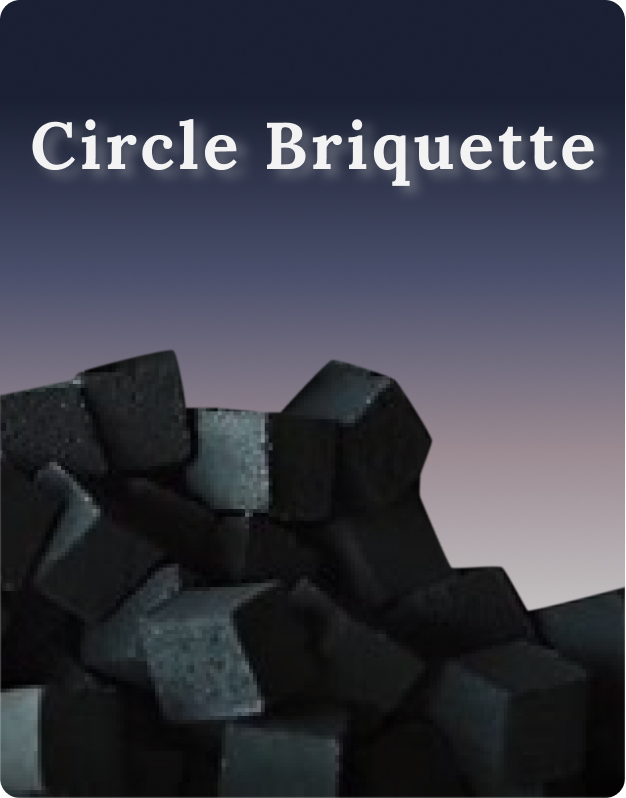
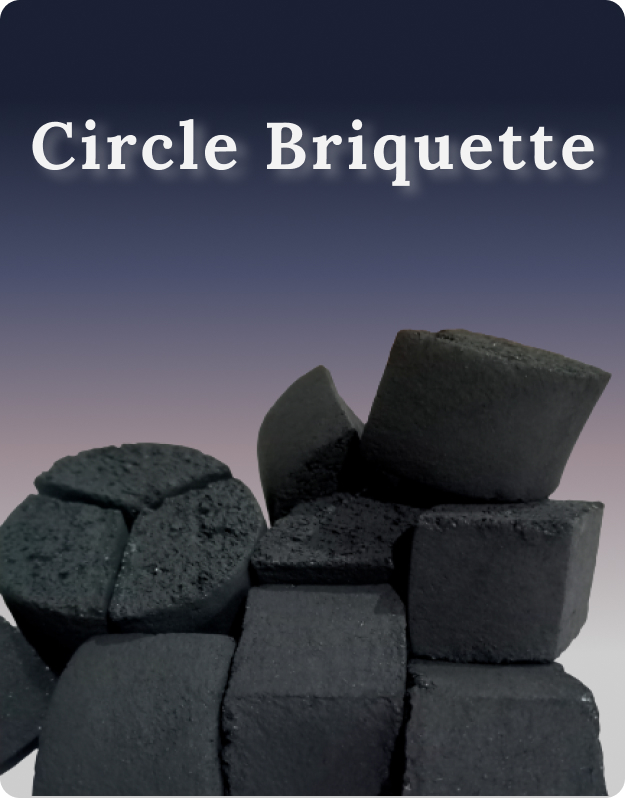
eror renponsive

diff --git a/index.html b/index.html
@@ -26,12 +26,12 @@
         <div id="menu-bar" class="fas fa-bars"></div> <!-- hamburger menu -->
 
         <nav class="navbar">
-            <a href="#home">home</a>
-            <a href="#features">feathures</a>
-            <a href="#about">about</a>
-            <a href="#usage">usage</a>
+            <a href="#home">Home</a>
+            <!-- <a href="#features">feathures</a> -->
+            <a href="#about">About</a>
+            <a href="#galery">Galery</a>
             <a href="#review">review</a>
-            <a href="#pricing">pricing</a>
+            <!-- <a href="#pricing">pricing</a> -->
             <a href="#contact">contact</a>
 
         </nav>
@@ -62,24 +62,24 @@
 
         <div class="wrapper">
             <div class="card">
-                <img src="img/cube22.jpg" alt="cube22">
+                <img src="img/cube.jpg" alt="cube22">
                 <div class="info">
                     <h1>Briquette</h1>
-                    <a href="#" class="btn">Show More</a>
+                    <a href="#galery" class="btn">Show More</a>
                 </div>
             </div>
             <div class="card">
                 <img src="img/hexa.jpg" alt="cube22">
                 <div class="info">
                     <h1>Briquette</h1>
-                    <a href="#" class="btn">Show More</a>
+                    <a href="#galery" class="btn">Show More</a>
                 </div>
             </div>
             <div class="card">
                 <img src="img/circle.jpg" alt="cube22">
                 <div class="info">
                     <h1>Briquette</h1>
-                    <a href="#" class="btn">Show More</a>
+                    <a href="#galery" class="btn">Show More</a>
                 </div>
             </div>
 
@@ -244,11 +244,11 @@
 
     <section class="galery" id="galery">
 
-        <h1 class="heading">Our Pricing Plan</h1>
+        <h1 class="heading">Gallery Product</h1>
 
         <div class="box-container">
             <div class="box">
-                <img src="img/product/1.jpg" alt="">
+                <img src="img/product/Cube-briquette-22.png" alt="">
                 <!-- <div class="price"><span>$</span>10<span>/Month</span></div>
                 <h3>Basic</h3> -->
                 <div>
@@ -257,49 +257,49 @@
             </div>
 
             <div class="box">
-                <img src="img/product/2.jpg" alt="">
+                <img src="img/product/Cube-briquette- 25.png" alt="">
                 <div>
                     <a href="#" class="btn item-detail-button2">Select Plan</a>
                 </div>
             </div>
 
             <div class="box">
-                <img src="img/product/3.jpg" alt="">
+                <img src="img/product/Cube-briquette-26.png" alt="">
                 <div>
                     <a href="#" class="btn item-detail-button3">Select Plan</a>
                 </div>
             </div>
 
             <div class="box">
-                <img src="img/product/4.jpg" alt="">
+                <img src="img/product/Cube-briquette-27.png" alt="">
                 <div>
                     <a href="#" class="btn item-detail-button4">Select Plan</a>
                 </div>
             </div>
 
             <div class="box">
-                <img src="img/product/1.jpg" alt="">
+                <img src="img/product/Circle-briquette-25.png" alt="">
                 <div>
                     <a href="#" class="btn item-detail-button5">Select Plan</a>
                 </div>
             </div>
 
             <div class="box">
-                <img src="img/product/2.jpg" alt="">
+                <img src="img/product/hexagonal/hexa-1.png" alt="">
                 <div>
                     <a href="#" class="btn item-detail-button6">Select Plan</a>
                 </div>
             </div>
 
             <div class="box">
-                <img src="img/product/3.jpg" alt="">
+                <img src="img/product/hexagonal/hexa-2.png" alt="">
                 <div>
                     <a href="#" class="btn item-detail-button7">Select Plan</a>
                 </div>
             </div>
 
             <div class="box">
-                <img src="img/product/4.jpg" alt="">
+                <img src="img/product/hexagonal/hexa-3.png" alt="">
                 <div>
                     <a href="#" class="btn item-detail-button8">Select Plan</a>
                 </div>
@@ -456,7 +456,7 @@
         <div class="modal-container">
             <a href="#" class="close-icon"><i class="fa-solid fa-x fa-xl"></i></a>
             <div class="modal-content">
-                <img src="img/Group 2.jpg" alt="Cube">
+                <img src="img/product/cb22.jpg" alt="Cube">
                 <div class="produk-content">
                     <h3>Specification Produk Cube Briquette 22</h3>
 
@@ -498,7 +498,7 @@
         <div class="modal-container">
             <a href="#" class="close-icon"><i class="fa-solid fa-x fa-xl"></i></a>
             <div class="modal-content">
-                <img src="img/Detail product.jpg" alt="Cube">
+                <img src="img/product/cb22.jpg" alt="Cube">
                 <div class="produk-content">
                     <h3>Specification Produk Briquette 22</h3>
 
@@ -540,7 +540,7 @@
         <div class="modal-container">
             <a href="#" class="close-icon"><i class="fa-solid fa-x fa-xl"></i></a>
             <div class="modal-content">
-                <img src="img/Detail product.jpg" alt="Cube">
+                <img src="img/product/cb25.jpg" alt="Cube">
                 <div class="produk-content">
                     <h3>Specification Produk Cube Briquette 25</h3>
 
@@ -582,7 +582,7 @@
         <div class="modal-container">
             <a href="#" class="close-icon"><i class="fa-solid fa-x fa-xl"></i></a>
             <div class="modal-content">
-                <img src="img/Detail product.jpg" alt="Cube">
+                <img src="img/product/cb26.jpg" alt="Cube">
                 <div class="produk-content">
                     <h3>Specification Produk Cube Briquette 26</h3>
 
@@ -623,7 +623,7 @@
         <div class="modal-container">
             <a href="#" class="close-icon"><i class="fa-solid fa-x fa-xl"></i></a>
             <div class="modal-content">
-                <img src="img/Detail product.jpg" alt="Cube">
+                <img src="img/product/cb27.jpg" alt="Cube">
                 <div class="produk-content">
                     <h3>Specification Produk Cube Briquette 27</h3>
 
@@ -664,7 +664,7 @@
         <div class="modal-container">
             <a href="#" class="close-icon"><i class="fa-solid fa-x fa-xl"></i></a>
             <div class="modal-content">
-                <img src="img/Detail product.jpg" alt="Cube">
+                <img src="img/product/cc25.jpg" alt="Cube">
                 <div class="produk-content">
                     <h3>Specification Produk Circle Briquette 25</h3>
 
@@ -704,7 +704,7 @@
         <div class="modal-container">
             <a href="#" class="close-icon"><i class="fa-solid fa-x fa-xl"></i></a>
             <div class="modal-content">
-                <img src="img/Detail product.jpg" alt="Cube">
+                <img src="img/product/hexagonal/hx1.jpg" alt="Cube">
                 <div class="produk-content">
                     <h3>Specification Produk Briquette Hexagonal 20x50</h3>
 
@@ -744,7 +744,7 @@
         <div class="modal-container">
             <a href="#" class="close-icon"><i class="fa-solid fa-x fa-xl"></i></a>
             <div class="modal-content">
-                <img src="img/Detail product.jpg" alt="Cube">
+                <img src="img/product/hexagonal/hexa-4-50100.png" alt="Cube">
                 <div class="produk-content">
                     <h3>Specification Produk Briquette Hexagonal 46x50</h3>
 
@@ -785,7 +785,7 @@
         <div class="modal-container">
             <a href="#" class="close-icon"><i class="fa-solid fa-x fa-xl"></i></a>
             <div class="modal-content">
-                <img src="img/Detail product.jpg" alt="Cube">
+                <img src="img/product/hexagonal/hexa-3.png" alt="Cube">
                 <div class="produk-content">
                     <h3>Specification Produk Briquette Hexagonal 50x100</h3>
 

diff --git a/css/style.css b/css/style.css
@@ -19,6 +19,7 @@
     --green1: #658f59;
     --green2: #7ec469;
     --gradient3: linear-gradient(90deg, var(--blue2), var(--salmond));
+    --gradient4: linear-gradient(90deg, rgba(153, 138, 145, 0.199), rgba(12, 56, 84, 0.411));
     --black: #1d1b1b;
 }
 
@@ -403,7 +404,9 @@ font-size: 2rem;
     margin: 1rem;
     padding: 2rem 0;
     box-shadow: 0 .5rem 1rem rgba(0, 0, 0, .1);
-    border: .1rem solid rgba(0, 0, 0, .3);
+    border: .5rem solid rgb(78, 78, 78);
+    background: var(--gradient4);
+
 }
 
 .galery .box-container .box img {
@@ -414,6 +417,10 @@ font-size: 2rem;
     height: 20rem;
     /* background: #974B00; */
     /* object-fit: cover; */
+}
+
+.galery .box-container .box img:hover {
+    transform: scale(1.1);
 }
 
 /* .galery .box-container .box .price {
@@ -569,7 +576,7 @@ font-size: 2rem;
     font-size: 2rem;
 }
 
-.contact .maps {
+.contact .map {
     display: flex;
     align-content: center;
     width: 100%;
@@ -621,7 +628,7 @@ font-size: 2rem;
 .contact form .inputBox textarea:valid~label {
     top: -.4rem;
     font-size: 1.5rem;
-    color: var(--red);
+    color: #1A2033;
 }
 
 
@@ -643,7 +650,7 @@ font-size: 2rem;
 
 .footer .share a:hover {
     color: #fff;
-    background: var(--gradient);
+    background: var(--gradient3);
 }
 
 .footer .credit {
@@ -654,7 +661,7 @@ font-size: 2rem;
 }
 
 .footer .creit span {
-    color: var(--red);
+    color: #1A2033;
 }
 
 
@@ -744,12 +751,12 @@ font-size: 2rem;
     margin-left: 0.5rem;
     border-radius: 0.5rem;
     background: var(--gradient3);
-  }
-  
-  .modal-container .button-back:hover {
+}
+
+.modal-container .button-back:hover {
     transform: scale(1.1);
-  
-  }
+
+}
 
 
 
@@ -957,19 +964,71 @@ font-size: 2rem;
         text-align: center;
     }
 
+
+    .modal {
+        display: none;
+        position: fixed;
+        z-index: 9999;
+        left: 0;
+        top: 0;
+        width: 100%;
+        height: 100%;
+        overflow: auto;
+        background-color: rgba(0, 0, 0, 0.7);
+    }
+
+    .modal .modal-container {
+        position: relative;
+        background-color: rgb(121, 121, 121);
+        background-image: linear-gradient(to top right, transparent 10%, #ebebeb 50%);
+        /* color: var(--bg); */
+        /* WARNA TULISAN */
+        /* width:auto; */
+        height: auto;
+        margin: auto;
+        padding: 1.2rem;
+        animation: animateModal 0.5s;
+    }
+
+    .modal .modal-container .modal-content {
+        flex-wrap: wrap;
+    }
+
+
+    .modal .modal-content .produk-content h3 {
+        font-size: 2.3rem;
+    }
+
+    .modal .modal-content .produk-content h4 {
+        font-size: 1.5rem;
+    }
+
+
 }
 
-@media(max-width:400px) {
+@media(max-width:300px) {
     html {
         font-size: 50%;
     }
 
     .card {
+
+
         margin: 1.5rem;
     }
 
     .heading {
         font-size: 3.5rem;
+    }
+
+    .modal-container {
+        position: relative;
+        background-color: #fefefe;
+        margin: 40% auto;
+        padding: 1.2rem;
+        width: 72%;
+        height: 53%;
+        animation: animateModal 0.5s;
     }
 
 }
